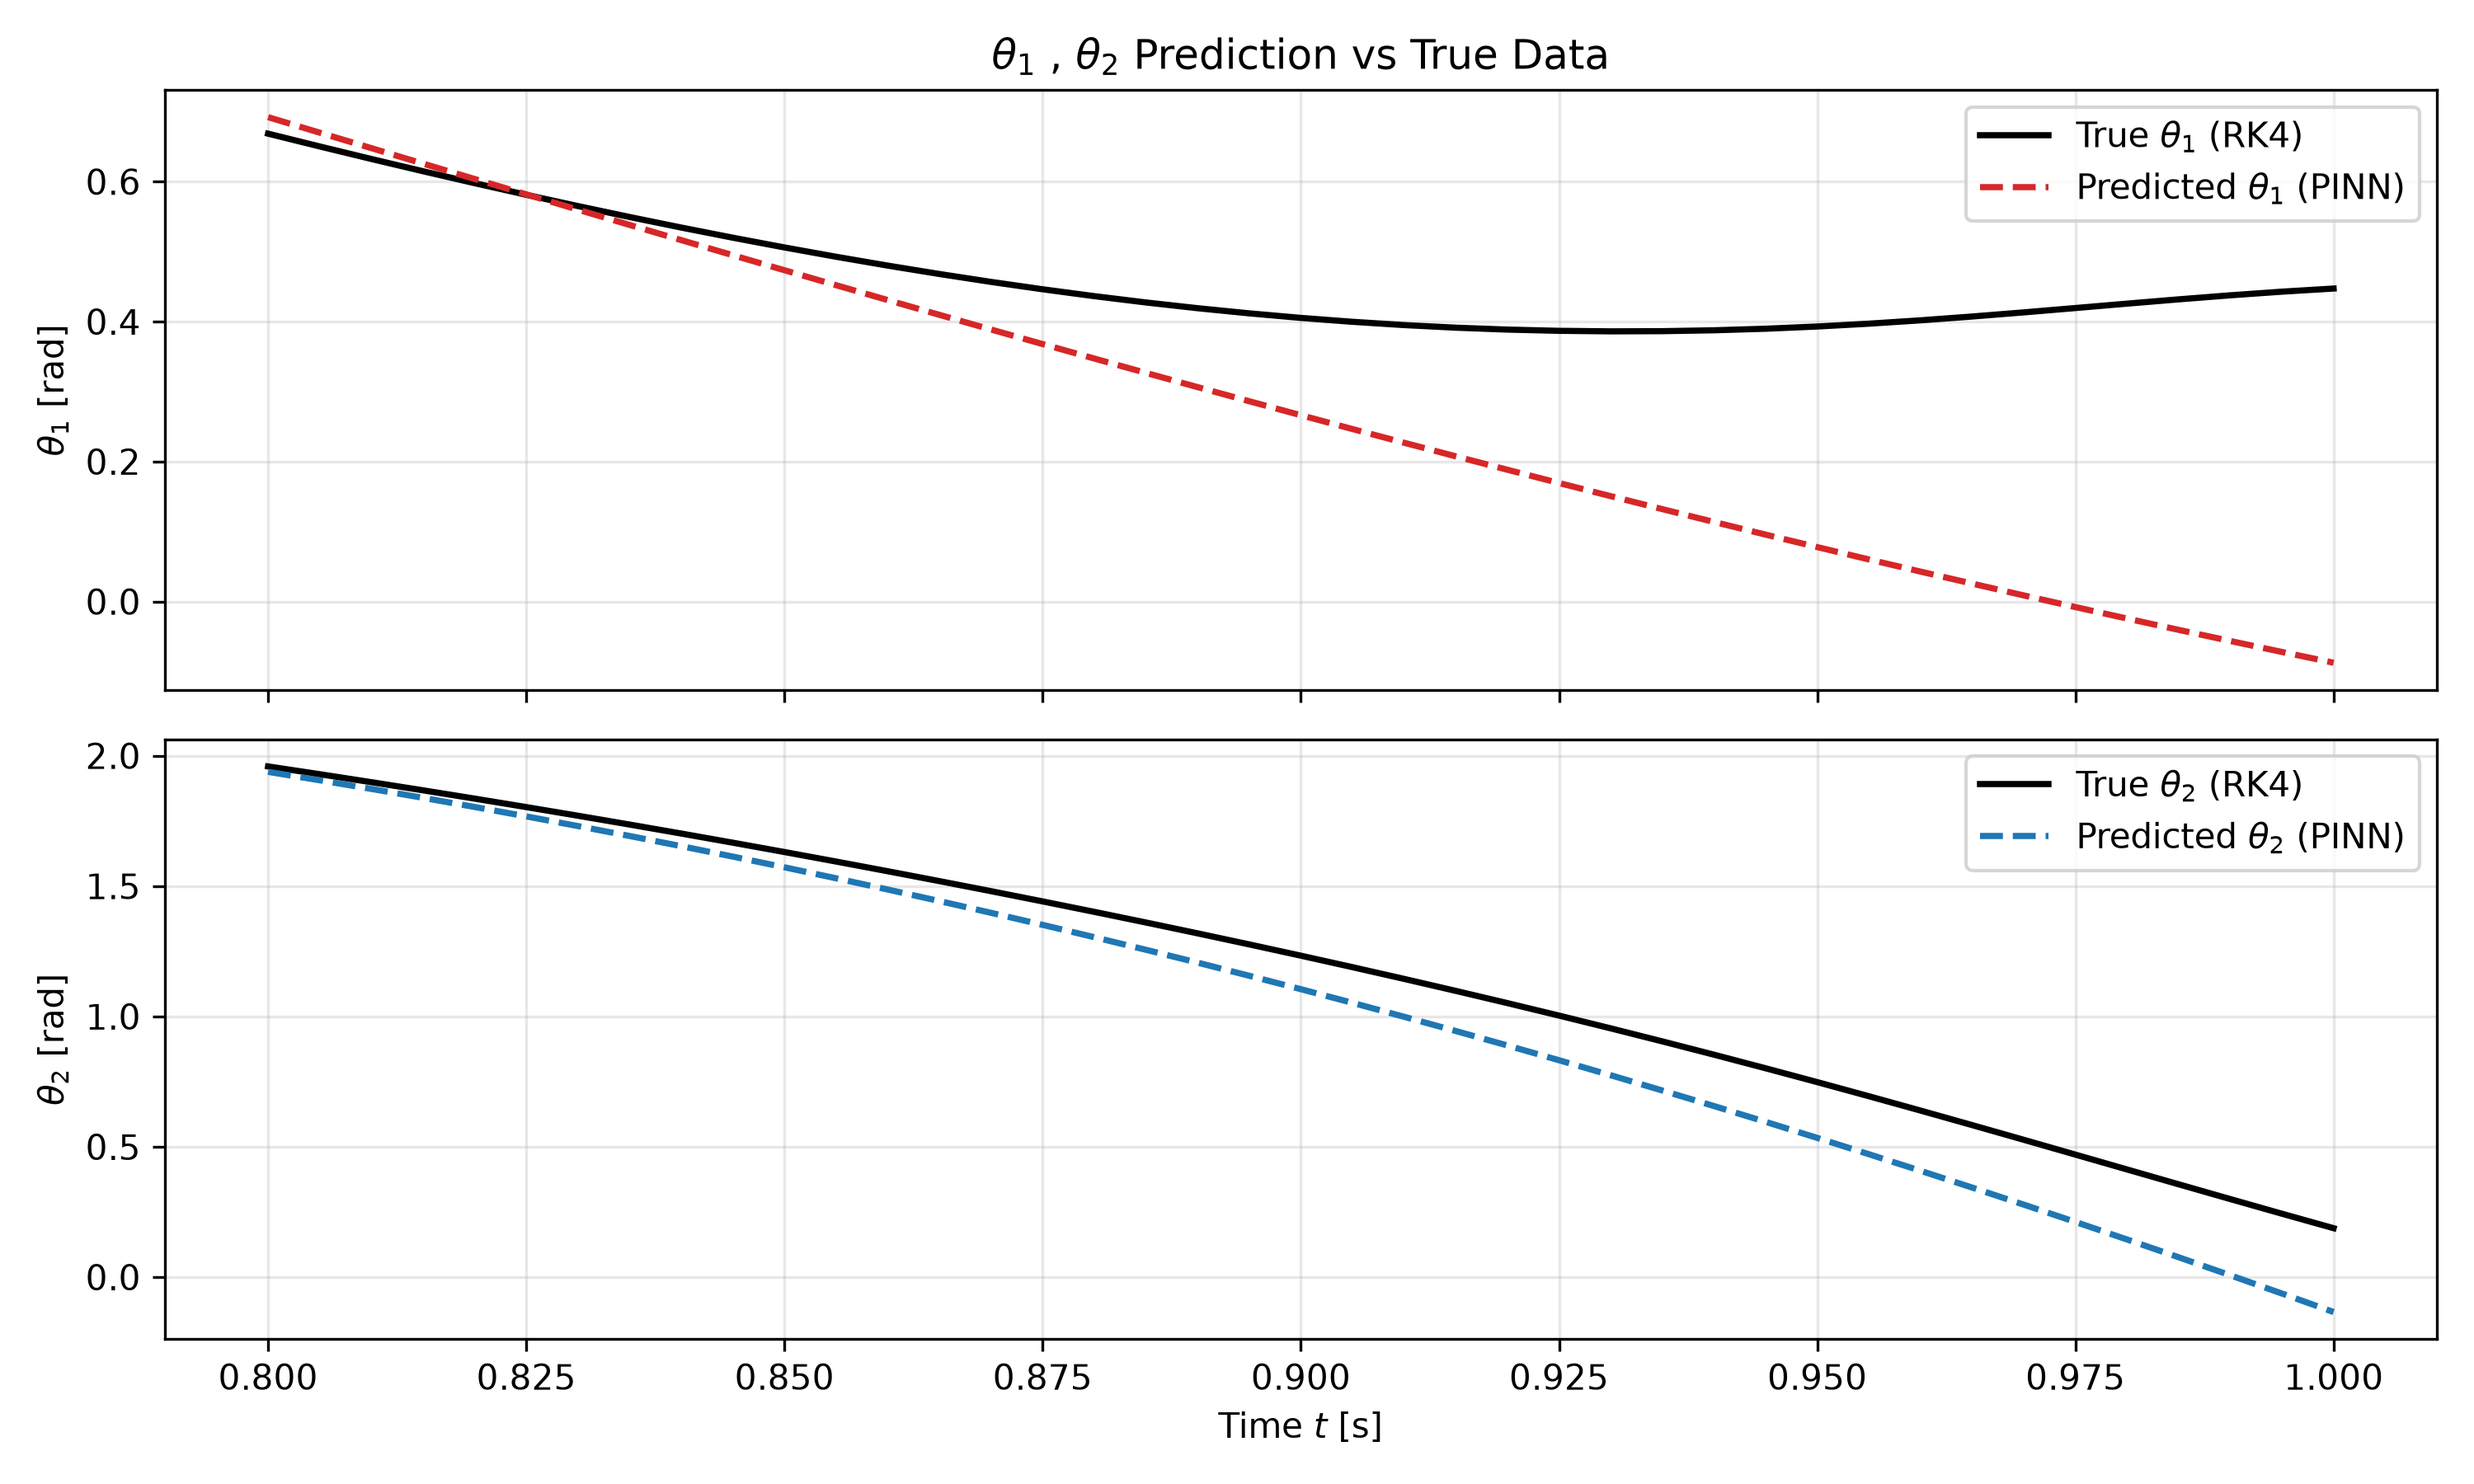
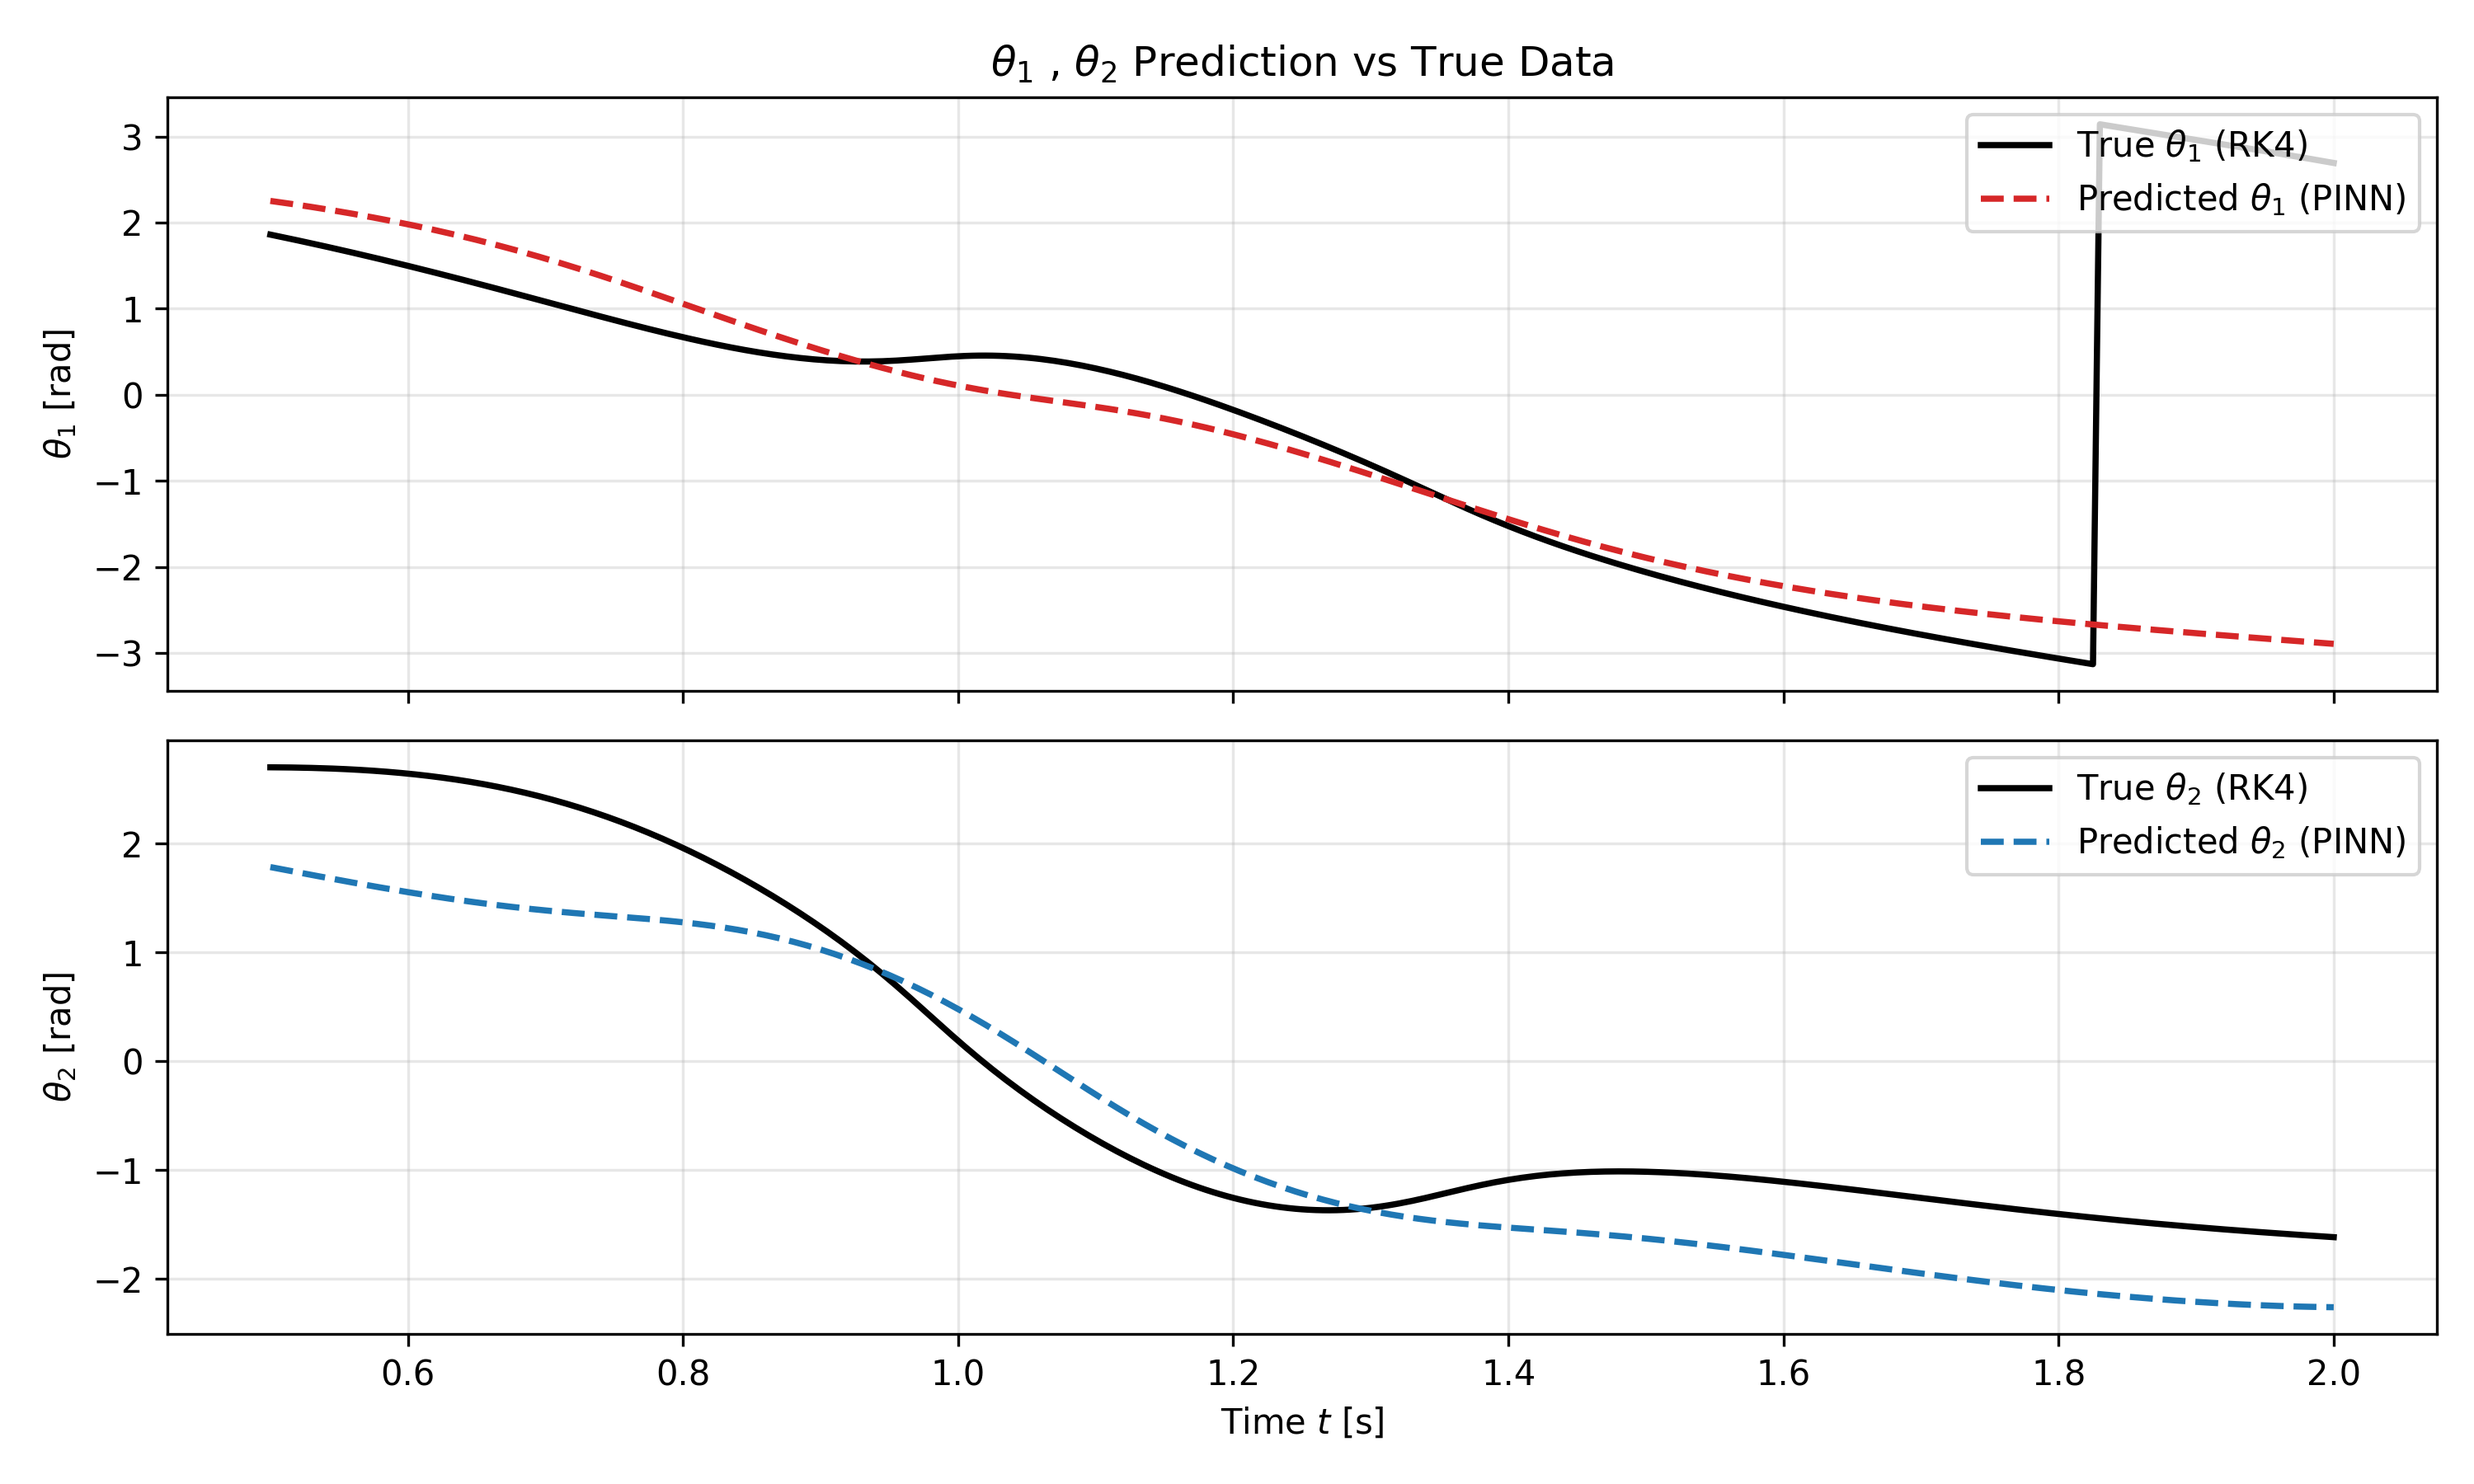
more exp

diff --git a/discrete_pinn/doublepend/model.py b/discrete_pinn/doublepend/model.py
@@ -29,6 +29,8 @@ class PINN (nn.Module):
             nn.Linear(n_input,n_hidden), nn.SiLU(),
             nn.Linear(n_hidden,n_hidden), nn.SiLU(),
             nn.Linear(n_hidden,n_hidden), nn.SiLU(),
+            nn.Linear(n_hidden,n_hidden), nn.SiLU(),
+            nn.Linear(n_hidden,n_hidden), nn.SiLU(),
             nn.Linear(n_hidden, n_output))
 
         
@@ -46,7 +48,8 @@ class LossCalc(nn.Module):
                  t: torch.Tensor,
                  state_pred: torch.Tensor,
                  state_true: torch.Tensor,
-                 pend_param = None):
+                 pend_param = None,
+                 ic_loss = None):
 
         """
         Use data loss and physics loss
@@ -63,9 +66,19 @@ class LossCalc(nn.Module):
             Array of total loss of data and physics loss 
 
         """
-        data_loss = self.mse(state_pred, state_true)
+        total_loss = 0
 
+        #===============
+        # Data Loss
+        data_loss = self.mse(state_pred, state_true)
+        total_loss = data_loss
+
+
+        #==============
+        # Physics Loss
         if pend_param is not None:
+
+            g, m1, m2, t1_ic, t2_ic, w1_ic, w2_ic, L1, L2 = pend_param
             dp_eq = DoublePendulumLagrangian(*pend_param)
             #=================
             # theta_1, theta_2 : 角度重り１と２
@@ -91,6 +104,26 @@ class LossCalc(nn.Module):
             g1_phys, g2_phys = dp_eq.accel_torch(theta_1, theta_2, w_1, w_2)
             
             physics_loss = self.mse(alpha_1, g1_phys) + self.mse(alpha_2, g2_phys)
+
+            if ic_loss :
+
+                t1_ic = torch.tensor(t1_ic, dtype=state_pred.dtype, device=state_pred.device)
+                t2_ic = torch.tensor(t2_ic, dtype=state_pred.dtype, device=state_pred.device)
+                w1_ic = torch.tensor(w1_ic, dtype=state_pred.dtype, device=state_pred.device)
+                w2_ic = torch.tensor(w2_ic, dtype=state_pred.dtype, device=state_pred.device)
+
+                # Squared error on initial angles and initial angular velocities at index 0 (t_0)
+                ic_loss = (
+                    (theta_1[0, 0] - t1_ic) ** 2
+                    + (theta_2[0, 0] - t2_ic) ** 2
+                    + (w_1[0, 0] - w1_ic) ** 2
+                    + (w_2[0, 0] - w2_ic) ** 2
+                )
+                total_loss = total_loss +  ic_loss +  physics_loss
+
+            else:
+                total_loss = total_loss +  physics_loss
+                 
 
             total_loss = data_loss + physics_loss
             

diff --git a/discrete_pinn/doublepend/train_model.py b/discrete_pinn/doublepend/train_model.py
@@ -149,17 +149,17 @@ def get_prediction (model, timestep, data):
 def train_model ():
     
 
-    timestep, data, pend_param = data_setup(num_steps=201, dt=0.005)
-    train_data, val_data, test_data = data_split(timestep, data, train_len=120, val_len=160 )
+    timestep, data, pend_param = data_setup(num_steps=401, dt=0.005)
+    train_data, val_data, test_data = data_split(timestep, data, train_len=450, val_len=100 )
 
     t_train, y_train = train_data 
     t_train = t_train.clone().detach().requires_grad_(True)
 
 
-    model = PINN(n_input=1, n_hidden=24, n_output=2)
+    model = PINN(n_input=1, n_hidden=30, n_output=2)
     criterion = LossCalc()
     optimizer = optim.Adam(model.parameters(), lr=1e-2)
-    epochs = 8000
+    epochs = 10000
     history = {"epoch": [], "train": [], "val": []}
 
     print(f"---Training Start----")
@@ -169,7 +169,7 @@ def train_model ():
         state_pred = model(t_train)
 
         # Compute combined loss
-        total_loss = criterion(t_train,state_pred, y_train, pend_param)
+        total_loss = criterion(t_train,state_pred, y_train, pend_param, ic_loss=True)
         
         # Backpropagation
         optimizer.zero_grad()
@@ -186,8 +186,12 @@ def train_model ():
             history["epoch"].append(epoch)
 
 
-    test_loss = evaluate(model, criterion, test_data, plot=True)
+    train_loss = evaluate(model, criterion, train_data, save_path="train_plot.png", plot=True)
+    print(f"---------- \n TRAIN LOSS : {train_loss}")
+    test_loss = evaluate(model, criterion, test_data, save_path="test.png",plot=True)
     print(f"{"-" * 10} \n TEST LOSS : {test_loss}")
+
+    
 
     
 
@@ -197,22 +201,12 @@ def train_model ():
 def wrap_to_pi(angles):
     """Wraps angles into [-pi, pi] for plotting against Steger et al. Fig. 1."""
     return (angles + np.pi) % (2 * np.pi) - np.pi
+
+
+
         
 if __name__  == "__main__":
 
 
-    timestep, angles, pend_param = data_setup(num_steps=201, dt=0.005)
-    wrapped = wrap_to_pi(angles)
-
-    plt.figure(figsize=(8, 4))
-    plt.plot(timestep, wrapped[:, 0], color="blue", label="$\\theta_1$")
-    plt.plot(timestep, wrapped[:, 1], color="blue", linestyle="--", label="$\\theta_2$")
-    plt.ylim(-3.5, 3.5)
-    plt.xlabel("Time $t$ [s]")
-    plt.ylabel("$\\theta_1, \\theta_2$ [rad]")
-    plt.title("Double Pendulum Reference Trajectory (RK45)")
-    plt.grid(True, alpha=0.3)
-    plt.legend()
-    plt.savefig("rk45_reference.png", dpi=300)
-    plt.show()
+    pass
     

diff --git a/discrete_pinn/doublepend/dp_lagrangian.py b/discrete_pinn/doublepend/dp_lagrangian.py
@@ -159,6 +159,8 @@ class DoublePendulumLagrangian:
         angles = np.column_stack((sol.y[0], sol.y[1]))
         return timestep, angles
 
+
+
 class SinglePendulum:
     def __init__(self, m, L, init_theta):
         self.m = m
